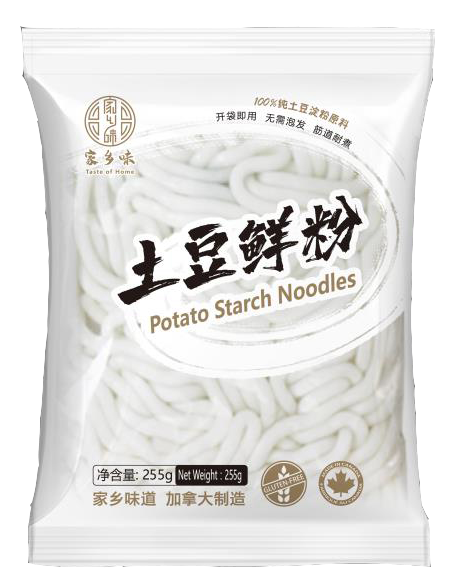
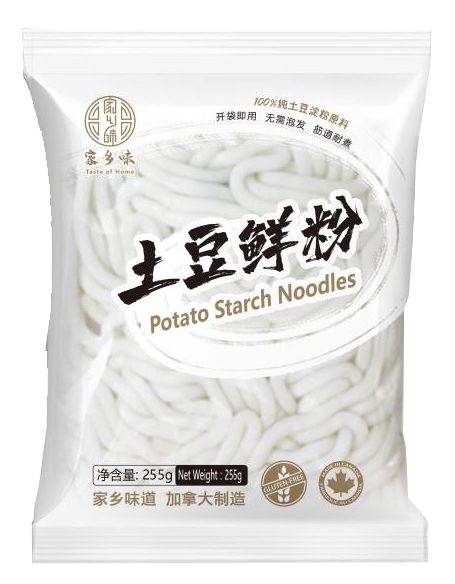
imgs update version 2

diff --git a/product.html b/product.html
@@ -42,7 +42,7 @@
 
             <div id="product01Img">
                 <p>
-                    <img src="./imgs/p01_hotpot.jpg" height="500" width="450"
+                    <img src="./imgs/p01_hotpot.png" height="500" width="450"
                         alt="Hotpot noodles" />
                 </p>
             </div>
